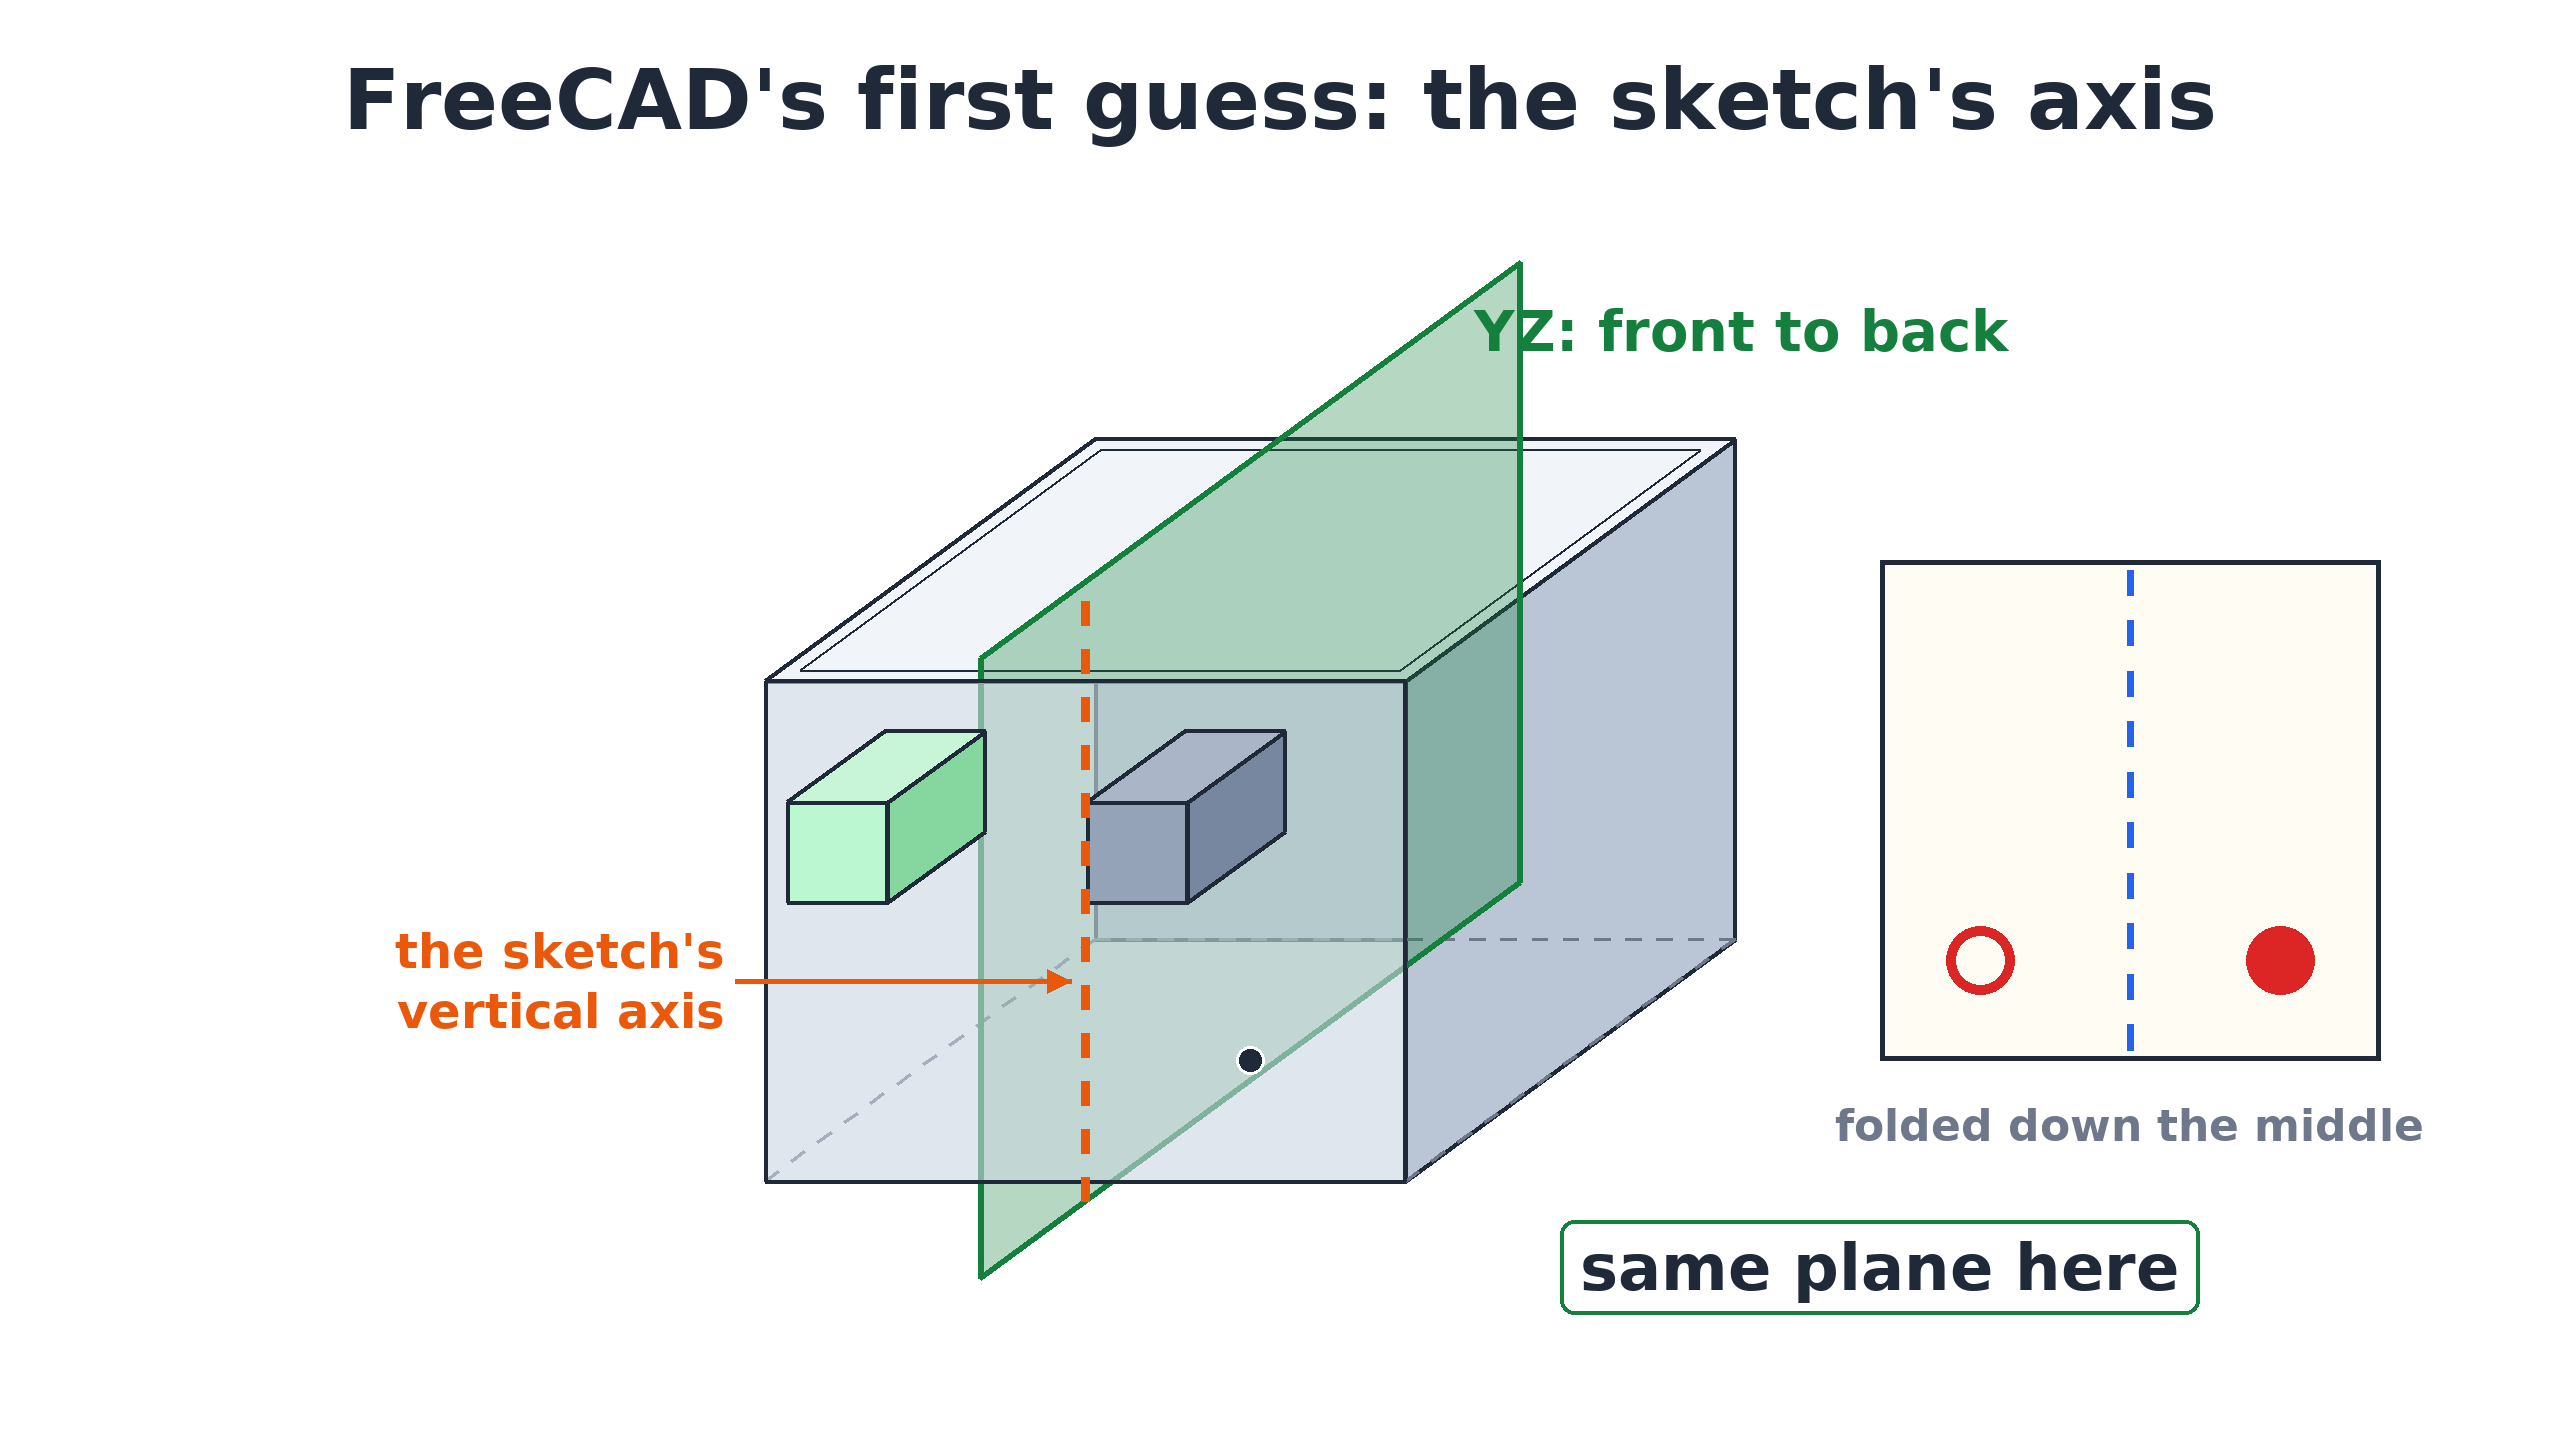
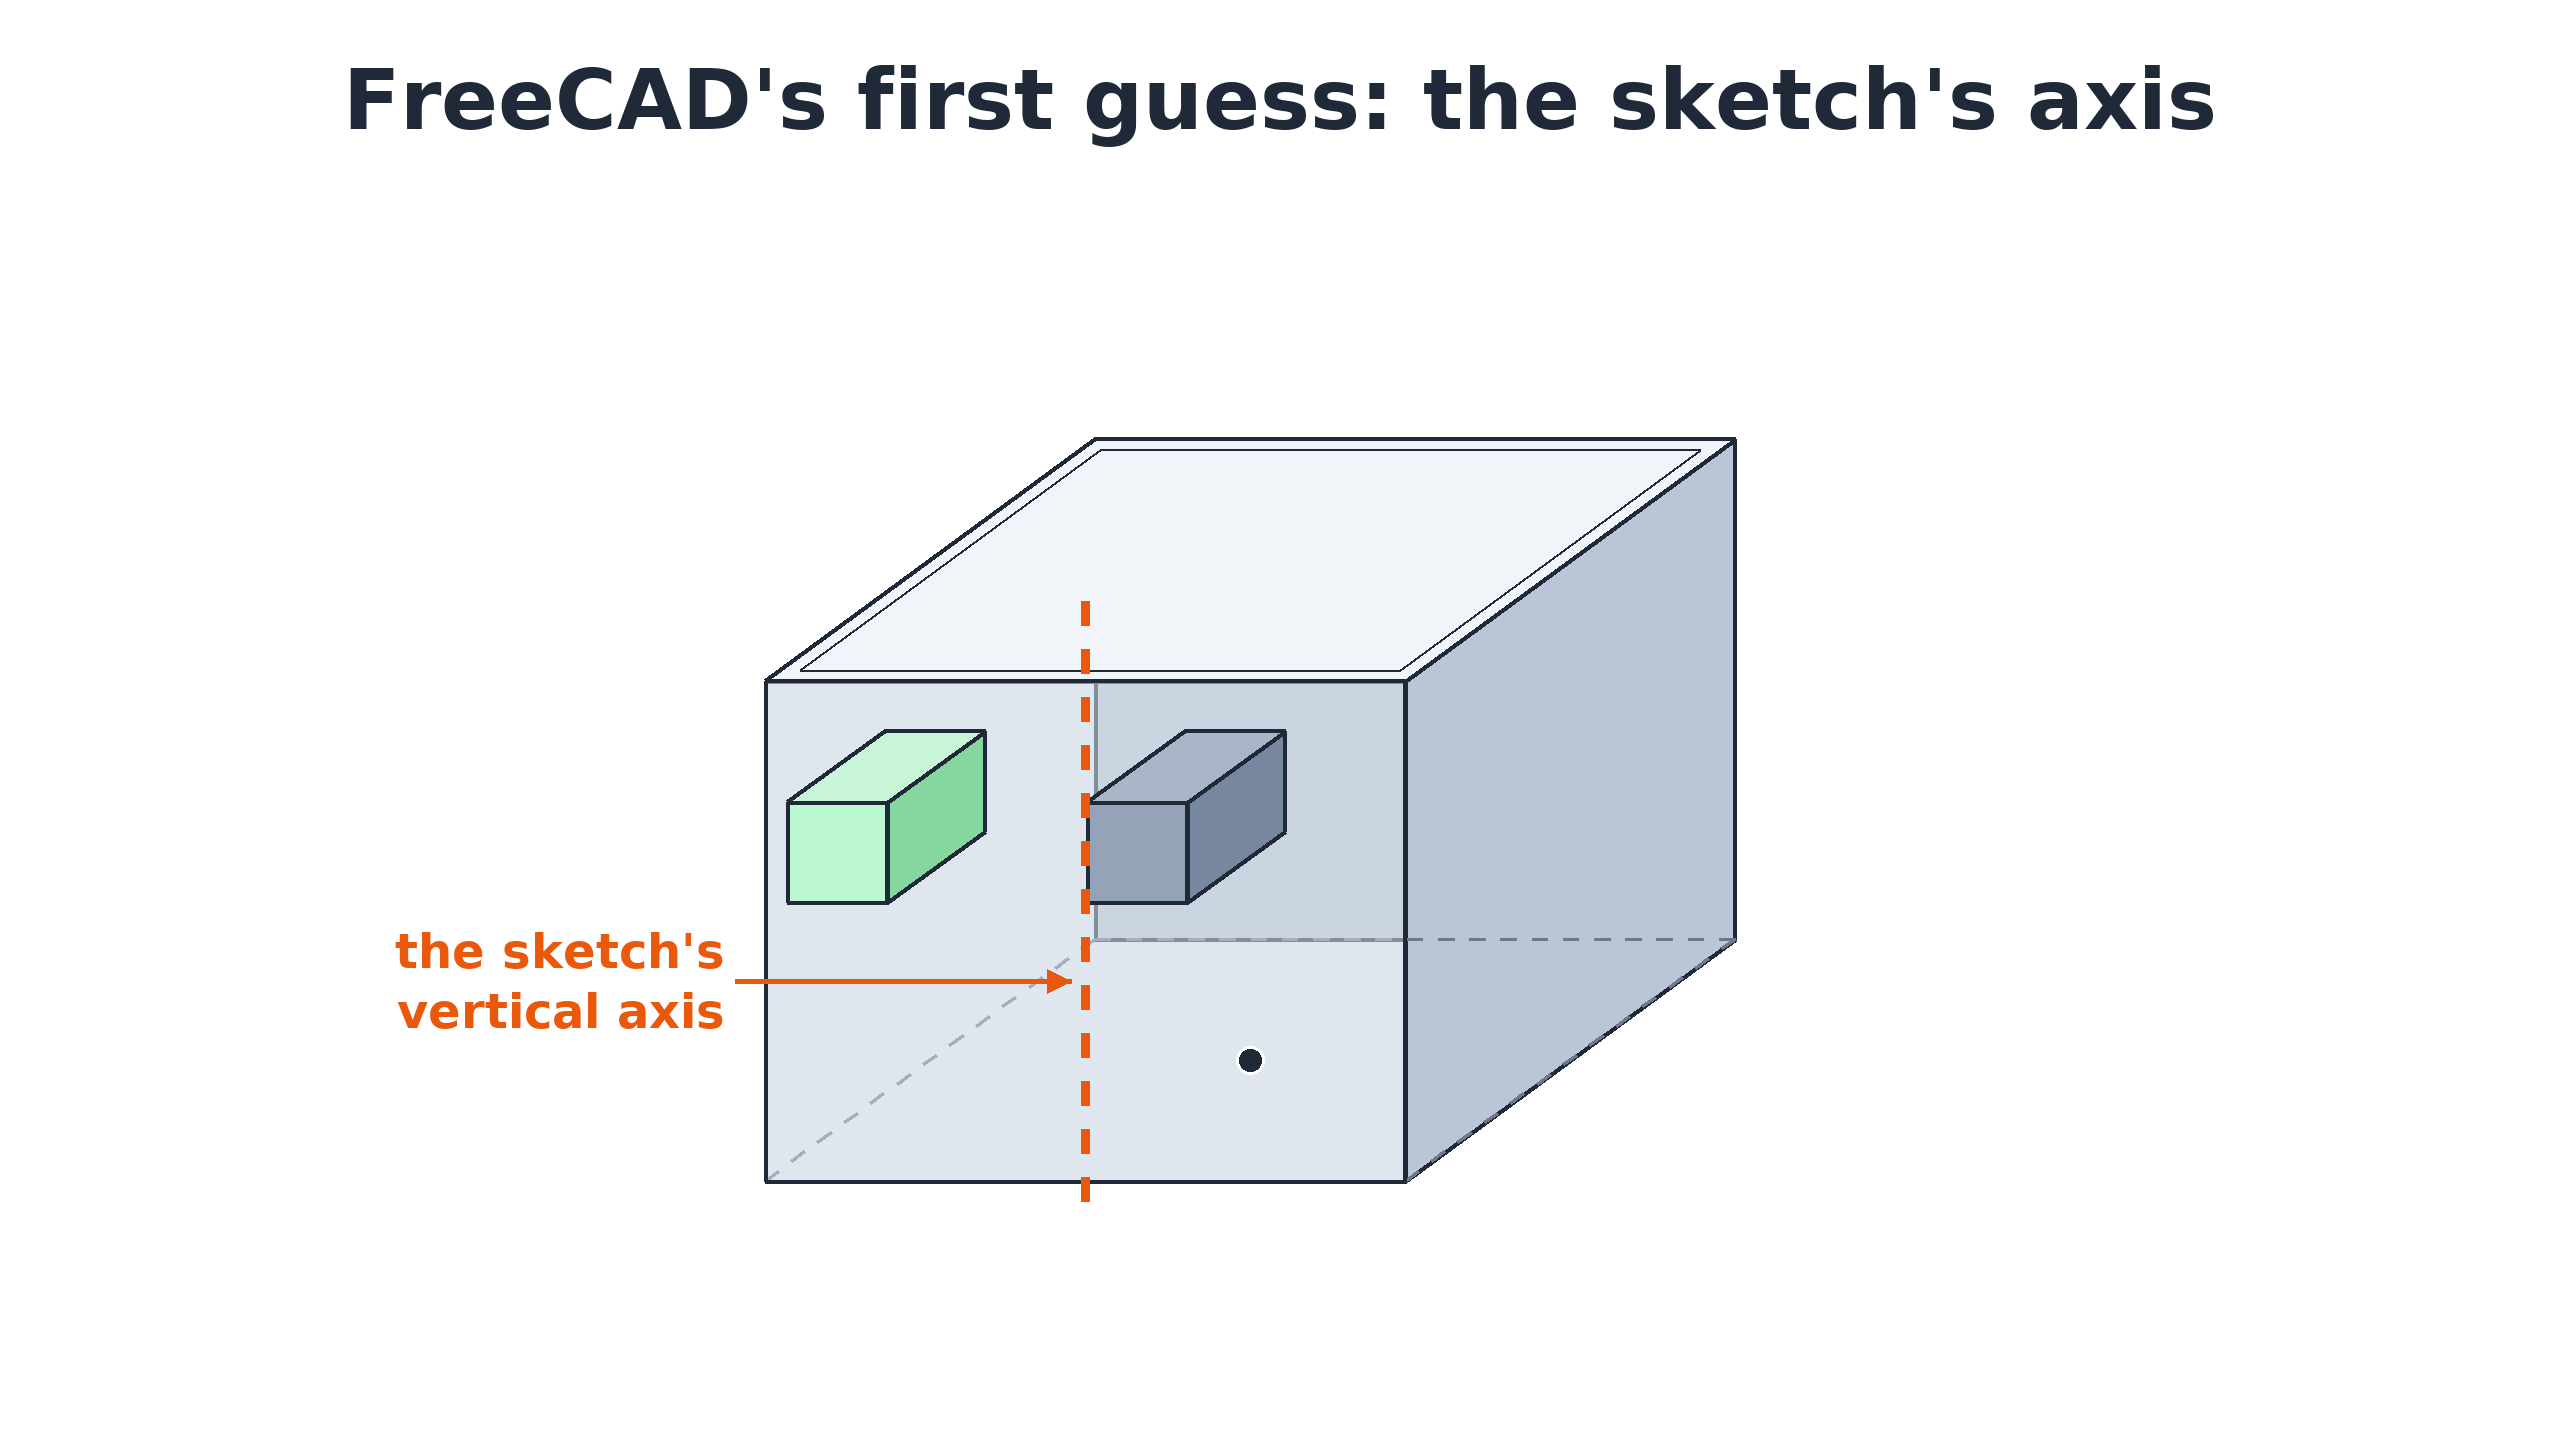
fc17 card-axis in 3 builds (axis, the fold stood up, the paper), one per F9 sentence; 15 tests pass
Claude-Session: https://claude.ai/code/session_01BKaTyjjjzT84TFwxoSwewu

diff --git a/video/draw_fc17.py b/video/draw_fc17.py
@@ -355,25 +355,30 @@ def card_top(step):
 
 
 # --- F9: FreeCAD's first guess, the sketch's vertical axis = the YZ plane ---------------------------------------------
-def card_axis():
+def card_axis(step=3):
+    """3 builds, one per sentence: 1 the sketch's vertical axis up the middle; 2 the fold stood up along it (YZ, front
+    to back); 3 the paper folded down the middle + "same plane here"."""
     O3[:] = [1250, 1060]
     im, d = canvas()
     header(d, "FreeCAD's first guess: the sketch's axis")
     DEPTH[:] = [0.75, 0.55]
-    d = cup3d(d, copy=True, im=im, plane=([(0, -36, -2), (0, 36, -2), (0, 36, 60), (0, -36, 60)], GREEN, 80))
+    plane = ([(0, -36, -2), (0, 36, -2), (0, 36, 60), (0, -36, 60)], GREEN, 80) if step >= 2 else None
+    d = cup3d(d, copy=True, im=im, plane=plane)
     f10.dashed(d, P(0, -22, -2), P(0, -22, 58), ORANGE, width=9, dash=24)          # the axis, up the cup's middle
     a, e = P(0, -22, 20), P(-32, -22, 20)
     text(d, (e[0] - 40, e[1] - 30), "the sketch's", 48, ORANGE, anchor='rm')
     text(d, (e[0] - 40, e[1] + 30), 'vertical axis', 48, ORANGE, anchor='rm')
     arrow(d, (e[0] - 30, e[1]), (a[0] - 14, a[1]), ORANGE, w=5, size=24)
     DEPTH[:] = [0.55, 0.42]
-    q = P(0, 36, 60)
-    text(d, (q[0] + 26, q[1] - 10), 'YZ: front to back', 56, GREEN)
+    if step >= 2:
+        q = P(0, 36, 60)
+        text(d, (q[0] + 26, q[1] - 10), 'YZ: front to back', 56, GREEN)
     origin_dot(d, label=False)
-    sheet(d, (1880, 560, 2380, 1060), 'down', [((0.8, 0.8), False), ((0.2, 0.8), True)], r=34)
-    text(d, (2130, 1100), 'folded down the middle', 44, GREY, anchor='ma')
-    chip(d, (1560, 1220), 'same plane here', 64, edge=GREEN)
-    save(im, 'card-axis-1.png')
+    if step >= 3:
+        sheet(d, (1880, 560, 2380, 1060), 'down', [((0.8, 0.8), False), ((0.2, 0.8), True)], r=34)
+        text(d, (2130, 1100), 'folded down the middle', 44, GREY, anchor='ma')
+        chip(d, (1560, 1220), 'same plane here', 64, edge=GREEN)
+    save(im, f'card-axis-{step}.png')
 
 
 # --- F10: centred -------------------------------------------------------------------------------------------------------
@@ -690,7 +695,8 @@ def main():
         card_names(s)
     for s in range(1, 7):
         card_top(s)
-    card_axis()
+    for s in range(1, 4):
+        card_axis(s)
     card_centred()
     card_end()
     for s in range(1, 4):

diff --git a/tests/test_draw_fc17.py b/tests/test_draw_fc17.py
@@ -17,7 +17,7 @@ sys.path.insert(0, os.path.join(os.path.dirname(os.path.abspath(__file__)), '..'
 import draw_fc17 as d  # noqa: E402
 
 CARDS = ([f'card-fold-{i}.png' for i in range(1, 5)] + [f'card-names-{i}.png' for i in range(1, 4)] +
-         [f'card-top-{i}.png' for i in range(1, 7)] + ['card-axis-1.png', 'card-centred-1.png', 'card-end.png'])
+         [f'card-top-{i}.png' for i in range(1, 7)] + [f'card-axis-{i}.png' for i in range(1, 4)] + ['card-centred-1.png', 'card-end.png'])
 SHORT = ['card-why-s1.png', 'card-why-s2.png', 'card-why-s3.png']
 SHORT_OV = ['card-short-head.png', 'short-head.png', 'short-q.png', 'short-series.png']
 PANELS = ['ov-in-F1.png', 'ov-in-F5.png', 'ov-in-F8.png', 'ov-in-F9.png', 'ov-in-K1.png', 'ov-in-K2.png',
